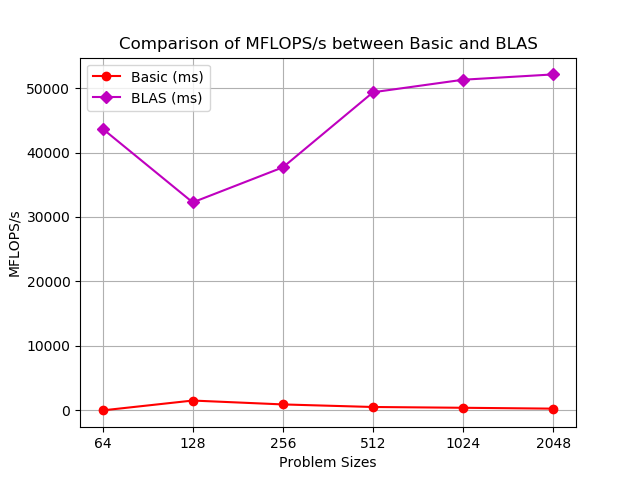
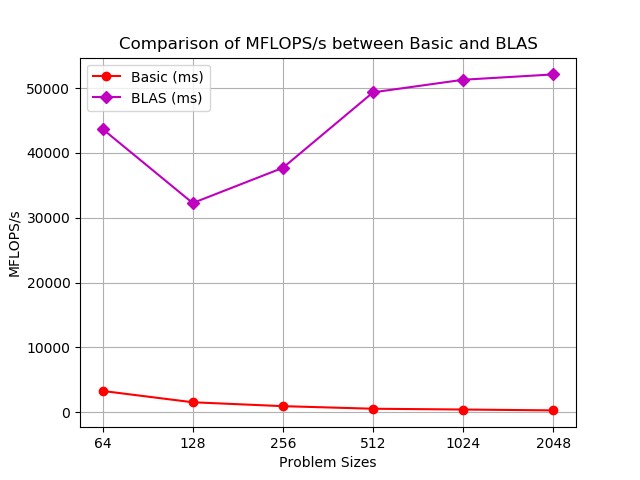
fixed typo in data and plot

diff --git a/data/plot_MFLOPS.py b/data/plot_MFLOPS.py
@@ -50,7 +50,7 @@ code4_time = df[var_names[4]].values.tolist()
 code5_time = df[var_names[5]].values.tolist()
 code6_time = df[var_names[6]].values.tolist()
 
-plt.title("Comparison of MFLOPS/s between Basic and BLAS")
+plt.title("Comparison of MFLOPS/s between BMMCO and BLAS")
 
 xlocs = [i for i in range(len(problem_sizes))]
 
@@ -63,11 +63,11 @@ code4_MFLOPS = compute_MFLOPs(code4_time, 2, 3)
 code5_MFLOPS = compute_MFLOPs(code5_time, 2, 3)
 code6_MFLOPS = compute_MFLOPs(code6_time, 2, 3)
 
-plt.plot(code1_MFLOPS, "r-o")
-#plt.plot(code2_MFLOPS, "y-x")
-#plt.plot(code3_MFLOPS, "c-^")
-#plt.plot(code4_MFLOPS, "g-.")
-#plt.plot(code5_MFLOPS, "b-v")
+#plt.plot(code1_MFLOPS, "r-o")
+plt.plot(code2_MFLOPS, "y-x")
+plt.plot(code3_MFLOPS, "c-^")
+plt.plot(code4_MFLOPS, "g-.")
+plt.plot(code5_MFLOPS, "b-v")
 plt.plot(code6_MFLOPS, "m-D")
 
 #plt.xscale("log")
@@ -76,8 +76,7 @@ plt.plot(code6_MFLOPS, "m-D")
 plt.xlabel("Problem Sizes")
 plt.ylabel("MFLOPS/s")
 
-varNames = [var_names[1], var_names[6]]
-#varNames = [var_names[2], var_names[3], var_names[4], var_names[5], var_names[6]]
+varNames = [var_names[2], var_names[3], var_names[4], var_names[5], var_names[6]]
 #varNames = [var_names[1], var_names[2], var_names[3], var_names[4], var_names[5], var_names[6]]
 plt.legend(varNames, loc="best")
 
